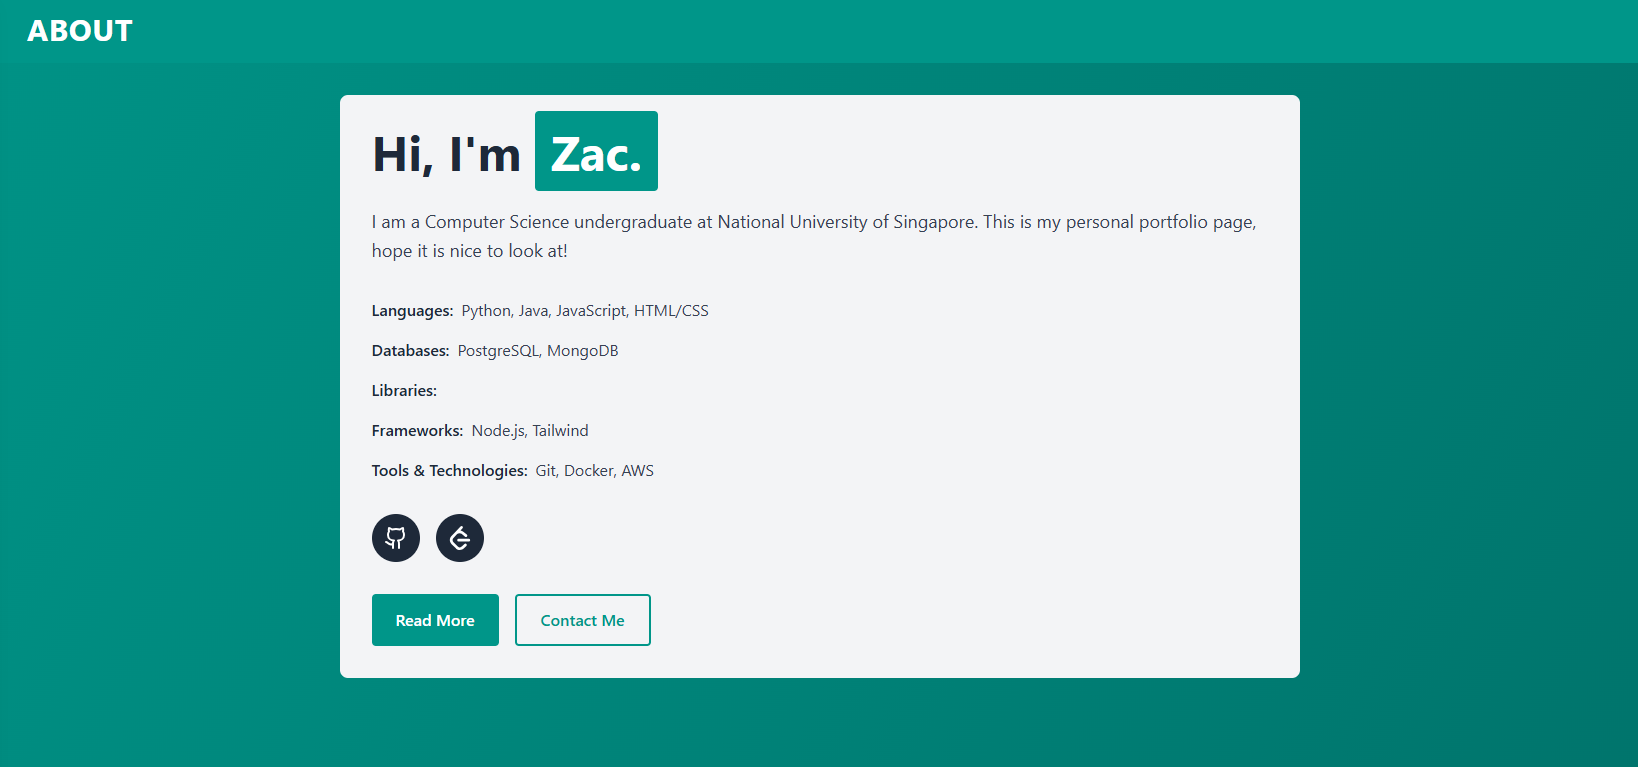
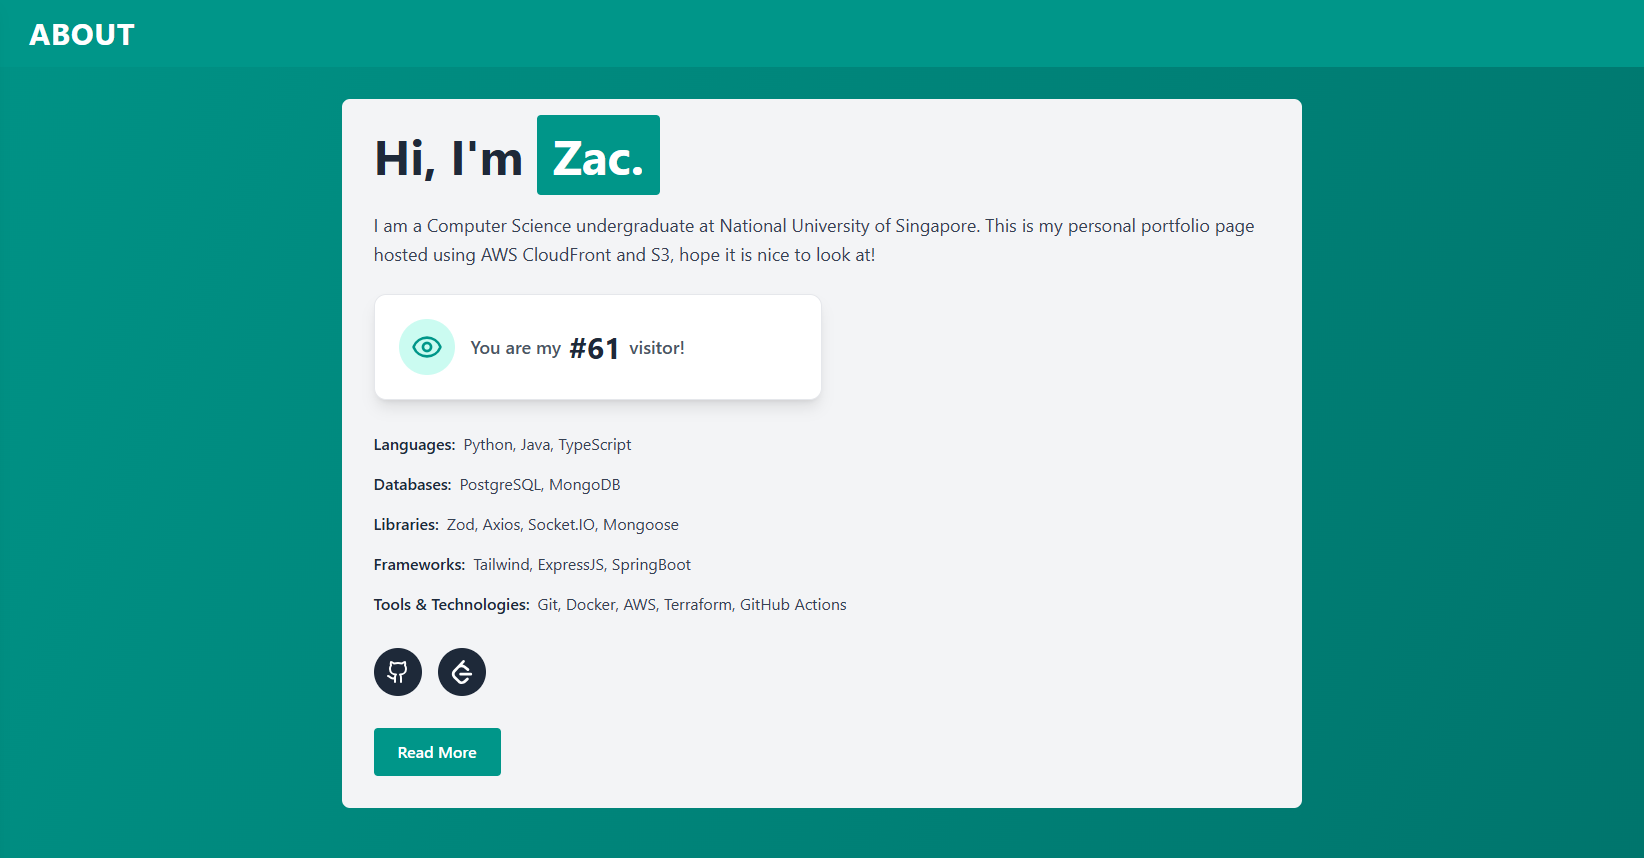
Make frontend responsive. Make 'Eye' component clickable.

diff --git a/frontend/src/components/About.tsx b/frontend/src/components/About.tsx
@@ -1,15 +1,14 @@
-import { Github, Eye } from 'lucide-react';
+import { useState } from 'react';
+import { Github, Eye, Database, Zap, Globe } from 'lucide-react';
 import { SiLeetcode } from 'react-icons/si';
 import { scrollToSection } from '../utils/util';
 import type { VisitorCountLoadingState } from '../App';
 
-export const About = ({
-  visitorCount,
-}: {
-  visitorCount: VisitorCountLoadingState | number;
-}) => {
+export const About = ({ visitorCount }: { visitorCount: VisitorCountLoadingState | number }) => {
+  const [isFlipped, setIsFlipped] = useState(false);
+
   return (
-    <section id="about" className="pb-24">
+    <section id="about" className="pb-24 bg-teal-700">
       {/* Section Header */}
       <div className="w-full bg-teal-600 py-4 px-8 mb-8">
         <h2 className="text-3xl font-bold text-white uppercase tracking-wide">About</h2>
@@ -30,22 +29,79 @@ export const About = ({
                 page hosted using AWS CloudFront and S3, hope it is nice to look at!
               </p>
 
-              {/* Big Prominent Visitor Counter */}
-              <div className="bg-white rounded-xl p-6 shadow-lg border border-gray-200 max-w-md">
-                <div className="flex items-center gap-4">
-                  <div className="p-3 bg-teal-100 rounded-full">
-                    <Eye className="w-8 h-8 text-teal-600" />
-                  </div>
-                  <div>
-                    {typeof visitorCount === 'number' ? (
-                      <div className="text-gray-600 text-lg font-medium flex items-center">
-                        You are my
-                        <div className="text-3xl font-bold text-gray-800 mx-2">#{visitorCount.toLocaleString()}</div>
-                        visitor!
+              {/* Flipping Visitor Counter */}
+              <div className="bg-white rounded-xl shadow-lg border border-gray-200 max-w-md perspective-1000">
+                <div
+                  className={`relative w-full h-32 transition-transform duration-700 transform-style-preserve-3d ${
+                    isFlipped ? 'rotate-y-180' : ''
+                  }`}
+                >
+                  {/* Front Side - Visitor Counter */}
+                  <div className="absolute inset-0 w-full h-full backface-hidden p-6">
+                    <div className="flex items-center gap-4 h-full">
+                      <button
+                        onClick={() => {
+                          if (typeof visitorCount === 'number') {
+                            setIsFlipped(!isFlipped);
+                          }
+                        }}
+                        className={`p-3 bg-teal-100 rounded-full transition-colors duration-200 ${
+                          typeof visitorCount === 'number' ? 'hover:bg-teal-200 cursor-pointer' : ''
+                        }`}
+                      >
+                        <Eye className="w-8 h-8 text-teal-600" />
+                      </button>
+                      <div>
+                        {typeof visitorCount === 'number' ? (
+                          <div className="text-gray-600 text-lg font-medium flex items-center">
+                            You are my
+                            <div className="text-3xl font-bold text-gray-800 mx-2">
+                              #{visitorCount.toLocaleString()}
+                            </div>
+                            visitor!
+                          </div>
+                        ) : (
+                          <div className="text-3xl font-bold text-gray-800">{visitorCount}</div>
+                        )}
                       </div>
-                    ) : (
-                      <div className="text-3xl font-bold text-gray-800">{visitorCount}</div>
-                    )}
+                    </div>
+                  </div>
+
+                  {/* Back Side - AWS Tech Stack */}
+                  <div className="absolute inset-0 w-full h-full backface-hidden rotate-y-180 p-6 bg-gradient-to-r from-orange-50 to-blue-50">
+                    <div className="h-full flex flex-col justify-center">
+                      <button
+                        onClick={() => setIsFlipped(!isFlipped)}
+                        className="absolute top-3 right-3 p-2 text-gray-500 hover:text-gray-700 transition-colors cursor-pointer"
+                      >
+                        <Eye className="w-6 h-6" />
+                      </button>
+
+                      <div className="text-center">
+                        <p className="text-gray-700 text-sm font-medium mb-3">Your visit is recorded using:</p>
+
+                        <div className="flex justify-center items-center gap-3">
+                          <div className="flex flex-col items-center">
+                            <Globe className="w-6 h-6 text-green-600 mb-1" />
+                            <span className="text-xs font-bold text-green-700">API Gateway</span>
+                          </div>
+
+                          <div className="text-gray-400">→</div>
+
+                          <div className="flex flex-col items-center">
+                            <Zap className="w-6 h-6 text-orange-500 mb-1" />
+                            <span className="text-xs font-bold text-orange-600">Lambda</span>
+                          </div>
+
+                          <div className="text-gray-400">→</div>
+
+                          <div className="flex flex-col items-center">
+                            <Database className="w-6 h-6 text-blue-600 mb-1" />
+                            <span className="text-xs font-bold text-blue-700">DynamoDB</span>
+                          </div>
+                        </div>
+                      </div>
+                    </div>
                   </div>
                 </div>
               </div>
@@ -55,7 +111,7 @@ export const About = ({
             <div className="space-y-4">
               <div>
                 <span className="font-semibold text-gray-800">Languages:</span>
-                <span className="text-gray-700 ml-2">Python, Java, JavaScript, HTML/CSS</span>
+                <span className="text-gray-700 ml-2">Python, Java, TypeScript</span>
               </div>
               <div>
                 <span className="font-semibold text-gray-800">Databases:</span>
@@ -63,15 +119,15 @@ export const About = ({
               </div>
               <div>
                 <span className="font-semibold text-gray-800">Libraries:</span>
-                <span className="text-gray-700 ml-2"></span>
+                <span className="text-gray-700 ml-2">Zod, Axios, Socket.IO, Mongoose</span>
               </div>
               <div>
                 <span className="font-semibold text-gray-800">Frameworks:</span>
-                <span className="text-gray-700 ml-2">Node.js, Tailwind</span>
+                <span className="text-gray-700 ml-2">Tailwind, ExpressJS, SpringBoot</span>
               </div>
               <div>
                 <span className="font-semibold text-gray-800">Tools & Technologies:</span>
-                <span className="text-gray-700 ml-2">Git, Docker, AWS</span>
+                <span className="text-gray-700 ml-2">Git, Docker, AWS, Terraform, GitHub Actions</span>
               </div>
             </div>
 
@@ -93,10 +149,7 @@ export const About = ({
             <div className="flex gap-4">
               <button
                 className="px-6 py-3 bg-teal-600 text-white rounded hover:bg-teal-700 transition-colors font-medium hover:cursor-pointer"
-                onClick={() => {
-                  console.log('here');
-                  scrollToSection('experience');
-                }}
+                onClick={() => scrollToSection('experience')}
               >
                 Read More
               </button>

diff --git a/frontend/src/data/projects.ts b/frontend/src/data/projects.ts
@@ -18,7 +18,7 @@ export const projects: project[] = [
     title: 'Personal Portfolio Page',
     image: PPP,
     description: 'Hosted and deployed using Amazon services with Terraform as IAC',
-    technologies: ['AWS', 'Terraform', 'React'],
+    technologies: ['AWS', 'Terraform', 'GitHub Actions'],
     githubUrl: 'https://github.com/zacwong2151/Personal-Portfolio-Page',
     liveUrl: 'https://loonymoony.click/',
   },
@@ -27,7 +27,7 @@ export const projects: project[] = [
     title: 'Zordle',
     image: zordle,
     description: 'Unlimited Wordle if you are extremely bored, plus a 1v1 option!',
-    technologies: ['React', 'PostgreSQL', 'Express'],
+    technologies: ['PostgreSQL', 'ExpressJS', 'React'],
     githubUrl: 'https://github.com/zacwong2151/zordle',
     liveUrl: 'https://zordle.fly.dev/',
   },
@@ -36,7 +36,7 @@ export const projects: project[] = [
     title: 'PeerPrep',
     image: PeerPrep,
     description: 'Online platform to practise DSA questions with a friend',
-    technologies: ['React', 'Docker', 'Express', 'MongoDB'],
+    technologies: ['Docker', 'ExpressJS', 'MongoDB', 'React'],
     githubUrl: 'https://github.com/CS3219-AY2425S1/cs3219-ay2425s1-project-g36',
   },
 ];

diff --git a/frontend/src/components/Sidebar.tsx b/frontend/src/components/Sidebar.tsx
@@ -1,4 +1,4 @@
-import koala from '../images/koala.jpg';
+import book from '../images/coloured-book.png'
 import { SectionItems } from '../data/sectionItems';
 import { scrollToSection } from '../utils/util';
 import type { SectionId } from '../data/sectionItems';
@@ -9,12 +9,13 @@ export const Sidebar = ({
   activeSection: SectionId;
 }) => {
   return (
-    <div className="w-64 bg-white shadow-lg flex flex-col fixed h-full z-10">
+    // md:flex: Overrides `hidden` on medium screens (md) and larger, making it visible as a flex container
+    <div className="w-64 bg-white shadow-lg flex-col fixed h-full z-10 hidden md:flex">
       <div>
-        <img src={koala} alt="Logo" />
+        <img className="py-4" src={book} alt="Logo" />
       </div>
 
-      <nav className="flex-1 py-4 overflow-y-auto">
+      <nav className="flex-1 py-1 overflow-y-auto">
         {SectionItems.map((item) => {
           const Icon = item.icon;
           return (

diff --git a/frontend/src/App.tsx b/frontend/src/App.tsx
@@ -16,11 +16,12 @@ const API_RESPONSE = z.object({
   visitorCount: z.int().gte(0),
 });
 
+const API_ENDPOINT = 'https://api.loonymoony.click/visitor-count';
+
 export const App = () => {
   const [activeSection, setActiveSection] = useState<SectionId>('about');
   const [visitorCount, setVisitorCount] = useState<VisitorCountLoadingState | number>('Loading..');
 
-  const API_ENDPOINT = 'https://api.loonymoony.click/visitor-count';
 
   useEffect(() => {
     const fetchVisitorCount = async () => {
@@ -83,7 +84,7 @@ export const App = () => {
   return (
     <div className="min-h-screen bg-gradient-to-br from-teal-600 to-teal-800 flex">
       <Sidebar activeSection={activeSection} />
-      <div className="flex-1 ml-64">
+      <div className="flex-1 md:ml-64">
         <About visitorCount={visitorCount} />
         <Experience />
         <Projects />

diff --git a/frontend/src/components/Experience.tsx b/frontend/src/components/Experience.tsx
@@ -3,7 +3,7 @@ import { internships, type internship } from '../data/internships';
 
 export const Experience = () => {
   return (
-    <section id="experience" className="pb-24">
+    <section id="experience" className="pb-24 bg-teal-700">
       {/* Section Header */}
       <div className="w-full bg-teal-600 py-4 px-8 mb-8">
         <h2 className="text-3xl font-bold text-white uppercase tracking-wide">Experience</h2>

diff --git a/frontend/src/components/Contact.tsx b/frontend/src/components/Contact.tsx
@@ -2,7 +2,7 @@ import { Mail, Linkedin, Github } from 'lucide-react';
 
 export const Contact = () => {
   return (
-    <section id="contact" className="pb-24">
+    <section id="contact" className="pb-24 bg-teal-700">
       {/* Section Header */}
       <div className="w-full bg-teal-600 py-4 px-8 mb-8">
         <h2 className="text-3xl font-bold text-white uppercase tracking-wide">Contact</h2>

diff --git a/frontend/src/components/Projects.tsx b/frontend/src/components/Projects.tsx
@@ -3,7 +3,7 @@ import { projects } from '../data/projects';
 
 export const Projects = () => {
   return (
-    <section id="projects" className="pb-24">
+    <section id="projects" className="pb-24 bg-teal-700">
       {/* Section Header */}
       <div className="w-full bg-teal-600 py-4 px-8 mb-8">
         <h2 className="text-3xl font-bold text-white uppercase tracking-wide">Projects</h2>

diff --git a/frontend/src/components/Resume.tsx b/frontend/src/components/Resume.tsx
@@ -2,7 +2,7 @@ import { FileText } from 'lucide-react';
 
 export const Resume = () => {
   return (
-    <section id="resume" className="pb-96">
+    <section id="resume" className="pb-96 bg-teal-700">
       {/* Section Header */}
       <div className="w-full bg-teal-600 py-4 px-8 mb-8">
         <h2 className="text-3xl font-bold text-white uppercase tracking-wide">Resume</h2>

diff --git a/frontend/src/components/Education.tsx b/frontend/src/components/Education.tsx
@@ -1,6 +1,6 @@
 export const Education = () => {
   return (
-    <section id="education" className="pb-24">
+    <section id="education" className="pb-24 bg-teal-700">
       {/* Section Header */}
       <div className="w-full bg-teal-600 py-4 px-8 mb-8">
         <h2 className="text-3xl font-bold text-white uppercase tracking-wide">Education</h2>

diff --git a/frontend/src/components/Skills.tsx b/frontend/src/components/Skills.tsx
@@ -1,6 +1,6 @@
 export const Skills = () => {
   return (
-    <section id="skills" className="pb-24">
+    <section id="skills" className="pb-24 bg-teal-700">
       {/* Section Header */}
       <div className="w-full bg-teal-600 py-4 px-8 mb-8">
         <h2 className="text-3xl font-bold text-white uppercase tracking-wide">Skills</h2>

diff --git a/frontend/src/index.css b/frontend/src/index.css
@@ -1,1 +1,14 @@
 @import "tailwindcss";
+
+.perspective-1000 {
+    perspective: 1000px;
+}
+.transform-style-preserve-3d {
+    transform-style: preserve-3d;
+}
+.backface-hidden {
+    backface-visibility: hidden;
+}
+.rotate-y-180 {
+    transform: rotateY(180deg);
+}

diff --git a/README.md b/README.md
@@ -22,7 +22,6 @@
 
 <br/>
 <br/>
-<br/>
 
 # Steps to recreate project
 > Note that the following steps are general guidelines. Everything from step 2 onwards has to be done using Terraform
@@ -124,9 +123,31 @@
 
 <br/>
 <br/>
-<br/>
 
-# Quick notes about REST API design
+## Quick notes about REST API design
 - `PUT`: typically used for idempotent updates to a known resource. If you `PUT` the same resource multiple times with the same payload, the result should be the same as if you did it once. It's often used to update an existing resource. `PUT` is often associated with sending the entire state of the resource.
 - `POST`: is used to create a new resource or to perform a non-idempotent operation on a resource. `POST` is a very common method for submitting data or triggering actions in APIs.
 - `GET`: is strictly for retrieving data. A `GET` operation must not alter server state.
+
+## Quick notes about `.json()` and `.stringify()`
+- `.json()` -> Parses a JSON object, and returns a Promise that resolves to a Javascript object
+- `.stringify()` -> Converts a Javascript object to JSON
+
+<br/>
+<br/>
+
+# Tips to set up project
+- Run `npm install` in the `/frontend` folder if the `node_modules` folder is absent 
+- Run `npm run build` to generate the `dist` directory, before running `terraform plan` and `terraform apply` in the `/infrastructure/frontend` folder
+- Ensure you have created a AWS named profile with access key pair credentials in your CLI, then run `export AWS_PROFILE=<insert-profile-name-here>` command in your CLI. This allows you to make changes to your AWS infrastructure by running your Terraform script. Note that there is no hard coded profile name in the Terraform code, so you can be assured that the Terraform AWS Provider will obtain AWS credentials through the `AWS_PROFILE` env variable
+- You shouldn't receive a CORS error, but if you do, change the CORS configuration of the API Gateway API to allow from `*`
+
+<br/>
+<br/>
+
+# Resources
+- [learn.cantrill.io](https://learn.cantrill.io/) -> everything you need to know about AWS
+- [Reddit post](https://www.reddit.com/r/AWSCertifications/comments/1jn6lwl/this_should_be_your_first_cloud_project_tutorial/) -> inspiration for this mini project
+- [Cloud test bank](https://kankoh.notion.site/IS458-Cloud-Management-and-Engineering-f45ae284fcba4089a37d98f0e21e20cb) -> I didn't use this, but might be useful in the future for revision
+- Gemini -> best LLM
+- Claude -> frontend master
